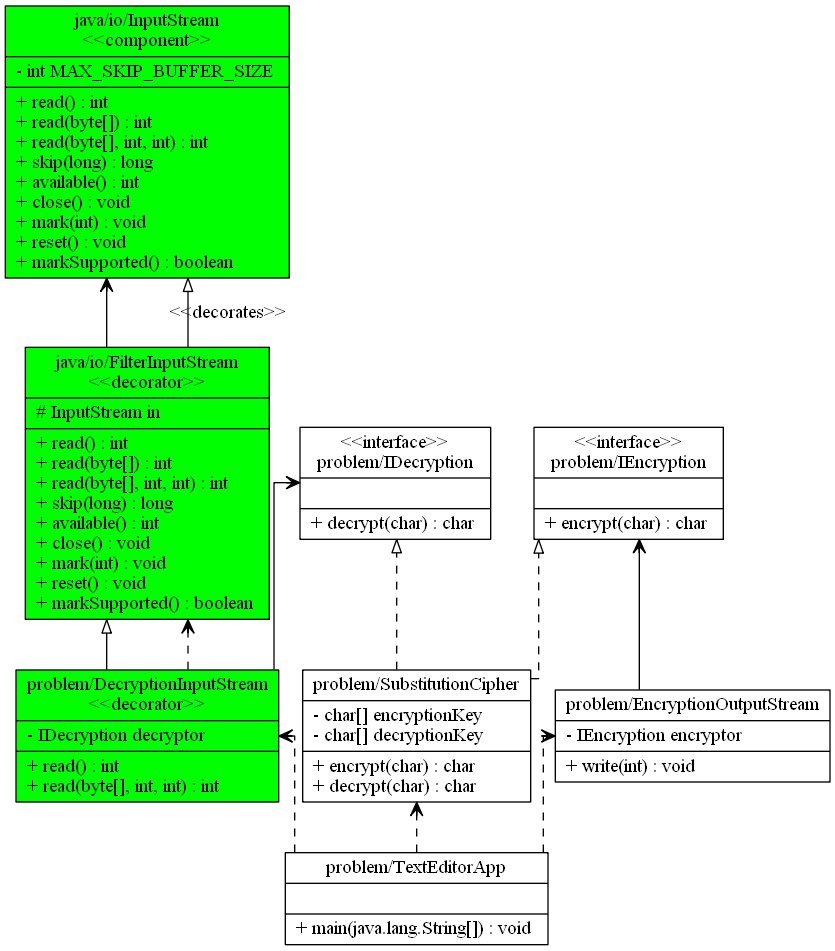
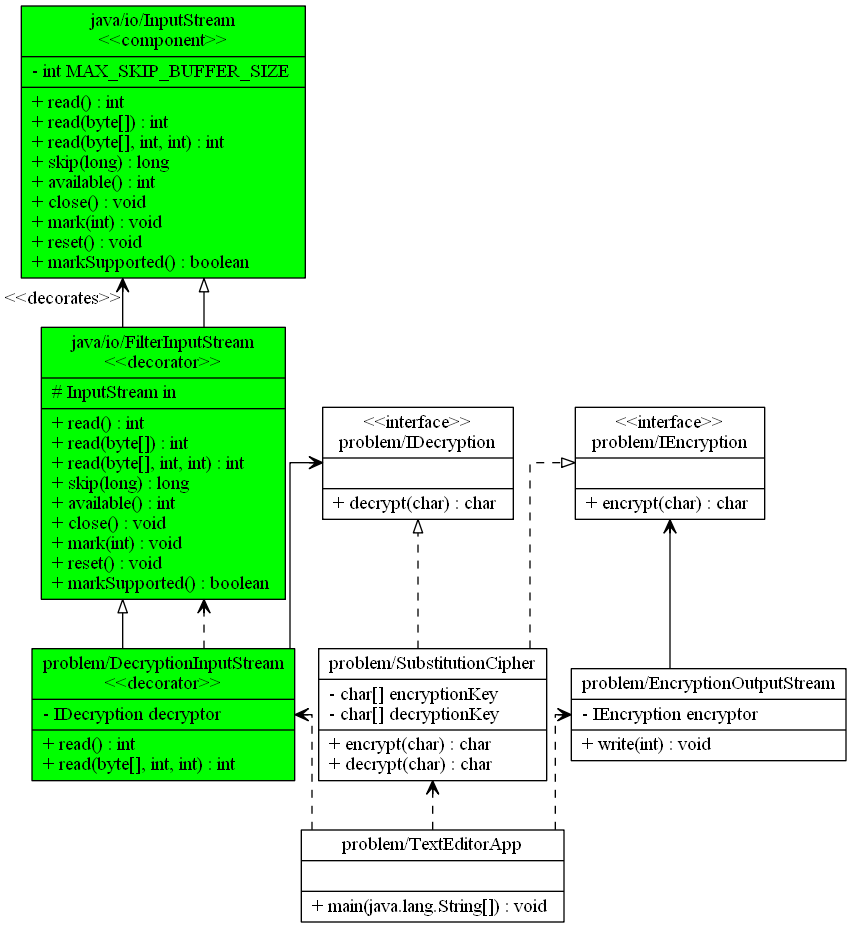
Fixed Pictures and corresponding files
The pictures look right

Changed region(s): [[0.0, 0.0, 0.9964, 1.0]]

diff --git a/BlueShells374/src/problem/visitor/DecoratorVisitor.java b/BlueShells374/src/problem/visitor/DecoratorVisitor.java
@@ -123,7 +123,7 @@ public class DecoratorVisitor implements IInvoker {
 				for (IRelation r : relations){
 					if (r.getClass().equals(HasRelation.class)){
 						if (s.replace("/", "").equals(r.getFromObject())){
-							r.addProperty("label=\"<<decorates>>\"");
+							r.addProperty("xlabel=\"<<decorates>>\"");
 						}	
 					}
 				}

diff --git a/BlueShells374/src/problem/visitor/AdapterVisitor.java b/BlueShells374/src/problem/visitor/AdapterVisitor.java
@@ -99,7 +99,7 @@ public class AdapterVisitor implements IInvoker {
 									.equals(c0.getClassName().replace("/", ""))
 									&& r.getToObject().equals(
 											fieldType.replace(".", ""))) {
-								r.addProperty("label=\"\\<\\<adapts\\>\\>\"");
+								r.addProperty("xlabel=\"\\<\\<adapts\\>\\>\"");
 							}
 						}
 					}

diff --git a/README.md b/README.md
@@ -17,7 +17,7 @@ Repository for our CSSE 374 Software Design project.
 1. Diagrams (Pictures below in same order):
   1. [Manually Created UML](http://www.google.com) TODO
   2. [Generated UML Project Diagram](https://raw.githubusercontent.com/Mercieral/374BlueShells/master/BlueShells374/docs/Milestone5/Generated_UML_Project.png)
-  3. [Auto-Generated Week 2-1 Solution](https://raw.githubusercontent.com/Mercieral/374BlueShells/master/BlueShells374/docs/Milestone5/Generated_UML_2-1.png) **NOTE:** The \<\<decorates\>\> label is on the HasRelation but GraphViz draws it far away. Working on a fix.  
+  3. [Auto-Generated Week 2-1 Solution](https://raw.githubusercontent.com/Mercieral/374BlueShells/master/BlueShells374/docs/Milestone5/Generated_UML_2-1.png)
   4. [Auto-Generated Week 5-1 Solution](https://raw.githubusercontent.com/Mercieral/374BlueShells/master/BlueShells374/docs/Milestone5/Generated_UML_5-1.png)
 
 2. Pictures:
